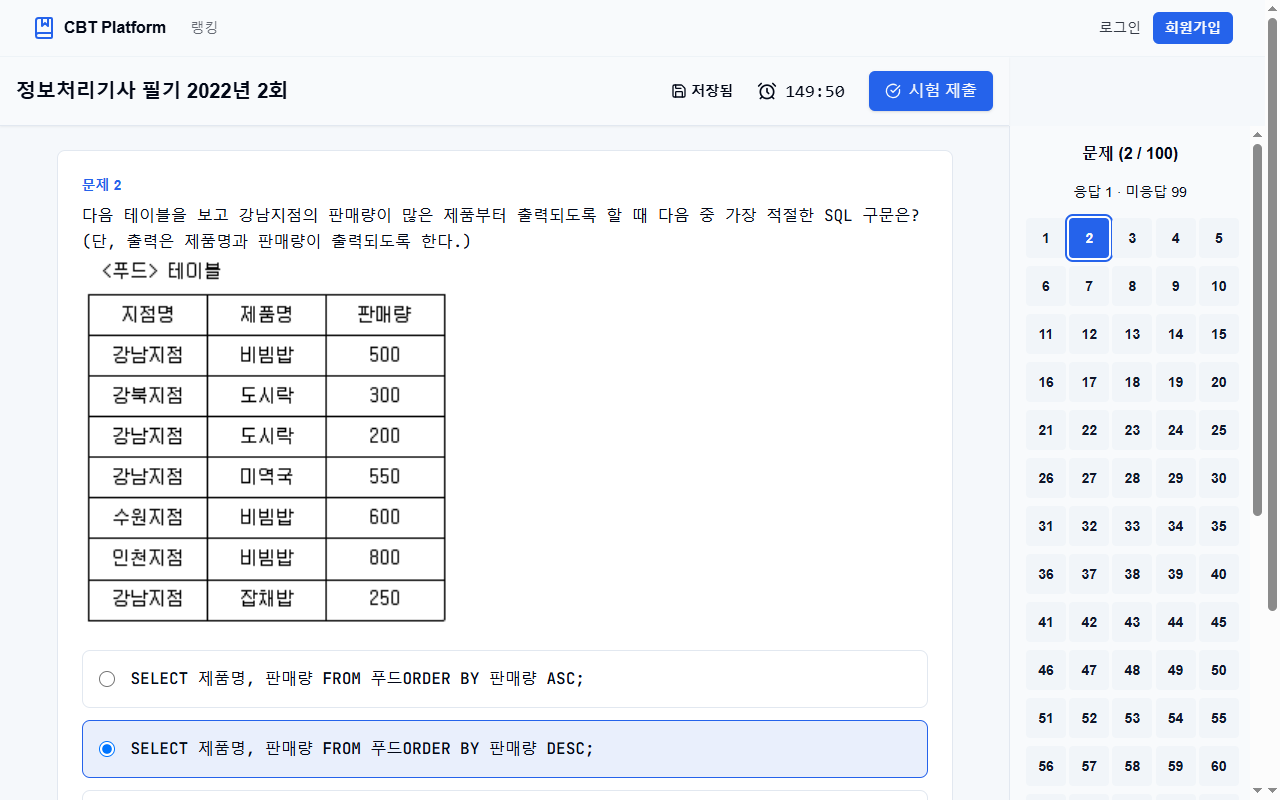
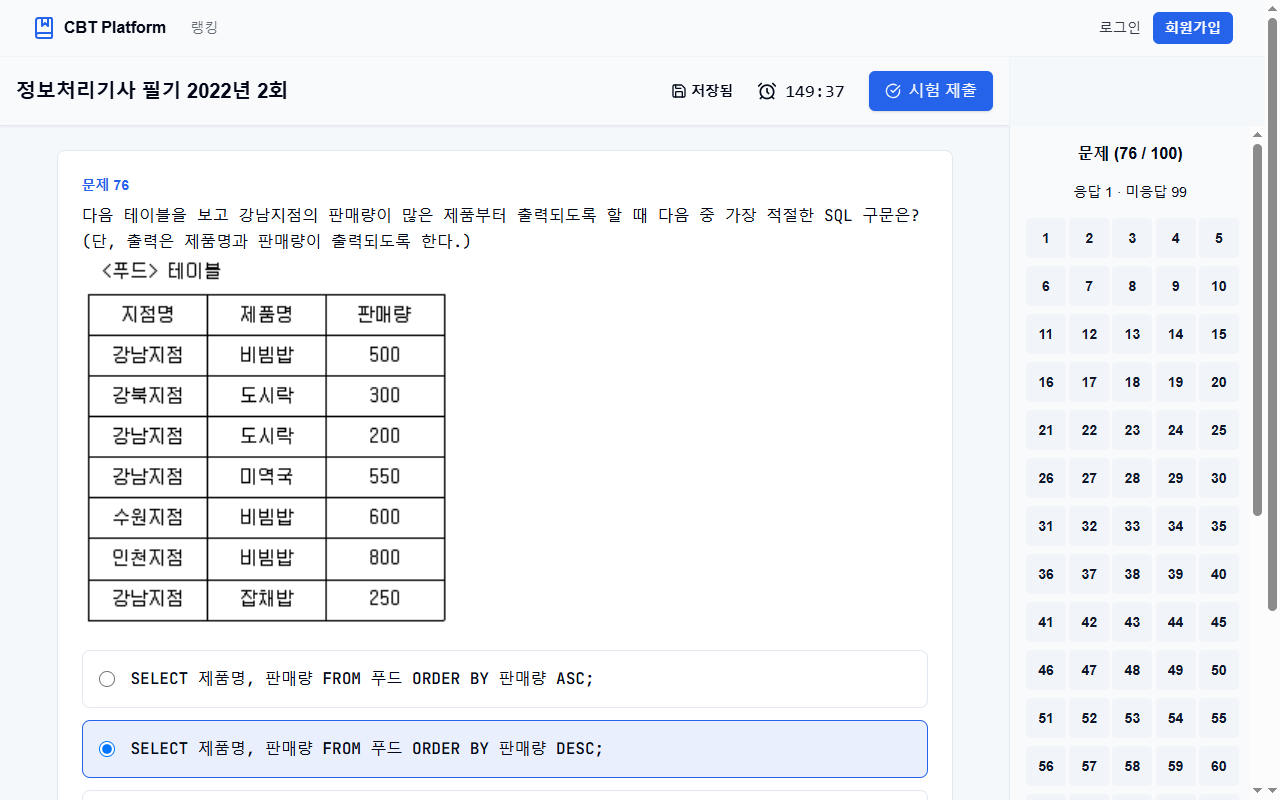
fix(scripts): 필기 파싱의 줄바꿈 띄어쓰기와 안내문 혼입 수정
- 줄 끝 공백이 지워진 경계 복원: 한글→영문, ;·따옴표→영문, SQL 예약어→한글
  (한글 단어 중간·조사는 그대로 붙임). 5개 필드 수정, 정답 변화 없음
- 단(column)을 블록이 아닌 줄 단위로 판정: 2021-1 Q100 보기에 사이트 안내문이 붙던 문제
- 검토 보고서에 안내문 혼입 검사 추가
- load_local.py --update-content: 응시·답안 기록을 지우지 않고 문항 내용만 제자리 갱신
- README 응시 화면 캡처 재촬영

diff --git a/scripts/load_local.py b/scripts/load_local.py
@@ -5,6 +5,7 @@
   python scripts/load_local.py --print        # 실행할 SQL만 출력
   python scripts/load_local.py --replace      # 이 시리즈(응시 기록 포함)를 지우고 다시 삽입
   python scripts/load_local.py --kind written # 필기(scripts/parse_comcbt.py 결과)
+  python scripts/load_local.py --kind written --update-content   # 응시 기록 유지, 문항 내용만 갱신
   python scripts/load_local.py --env-file test.env -p cbt-validation-local   # 임시 검증 스택
 
 관리자 로그인 없이 db 컨테이너의 mysql로 직접 넣는다(scripts/smoke_test.py 와 같은 방식).
@@ -57,6 +58,38 @@ def delete_sql(SERIES):
     ]
 
 
+def exam_title(kind, key):
+    year, rnd = key.split("-")
+    rnd = "1·2" if rnd == "12" else rnd  # 2020년 1·2회 통합 시행
+    return KINDS[kind]["title"] % (year, rnd)
+
+
+def update_sql(rounds, kind):
+    """--update-content: 문항 내용(본문·보기·정답·해설·태그)만 제자리 갱신한다. 응시·답안 기록은 그대로 둔다.
+
+    문항은 시험별 id 순서 = 파일의 문항 순서로 대응시킨다(적재 때 순서대로 넣었으므로).
+    """
+    ranked = ("SELECT x.id, e.title, ROW_NUMBER() OVER (PARTITION BY x.exam_id ORDER BY x.id) rn"
+              " FROM questions x JOIN exams e ON e.id=x.exam_id JOIN exam_series s ON s.id=e.series_id"
+              " WHERE s.name=%s" % q(KINDS[kind]["series"]))
+    out = ["START TRANSACTION;"]
+    for key, data in rounds:
+        for n, x in enumerate(data["questions"], 1):
+            out.append(
+                "UPDATE questions t JOIN (%s) r ON r.id=t.id SET t.text=%s, t.choices=%s, t.answer_key=%s,"
+                " t.answer_keywords=%s, t.explanation=%s, t.tags=%s WHERE r.title=%s AND r.rn=%d;"
+                % (ranked, q(x["text"]), q(x["choices"]), q(x["answerKey"]), q(x["answerKeywords"]),
+                   q(x["explanation"]), q(x["tags"]), q(exam_title(kind, key)), n))
+    out.append("COMMIT;")
+    return "\n".join(out) + "\n"
+
+
+def count_sql(kind):
+    return ("SELECT e.title, COUNT(x.id) FROM exams e JOIN exam_series s ON s.id=e.series_id"
+            " LEFT JOIN questions x ON x.exam_id=e.id WHERE s.name=%s GROUP BY e.id ORDER BY e.round;"
+            % q(KINDS[kind]["series"]))
+
+
 def build_sql(rounds, kind, replace=False):
     k = KINDS[kind]
     out = ["START TRANSACTION;"] + (delete_sql(k["series"]) if replace else []) + [
@@ -64,11 +97,9 @@ def build_sql(rounds, kind, replace=False):
            % (q(k["series"]), q(k["series_desc"])),
            "SET @s = LAST_INSERT_ID();"]
     for no, (key, data) in enumerate(rounds, 1):
-        year, rnd = key.split("-")
-        rnd = "1·2" if rnd == "12" else rnd  # 2020년 1·2회 통합 시행
         out.append("INSERT INTO exams(series_id, round, title, description, duration_sec, type, is_published,"
                    " created_at, updated_at) VALUES (@s, %d, %s, %s, %d, %s, 1, NOW(6), NOW(6));"
-                   % (no, q(k["title"] % (year, rnd)), q(k["desc"] % data["source"]), DURATION_SEC, q(k["type"])))
+                   % (no, q(exam_title(kind, key)), q(k["desc"] % data["source"]), DURATION_SEC, q(k["type"])))
         out.append("SET @e = LAST_INSERT_ID();")
         rows = ["(@e, %s, %s, %s, %s, %s, %s, %s, %s)" % (
             q(x["type"]), q(x["text"]), q(x["choices"]), q(x["answerKey"]), q(x["answerKeywords"]),
@@ -90,6 +121,8 @@ if __name__ == "__main__":
     ap.add_argument("--dir", help="기본값: 종류별 scraped 디렉터리")
     ap.add_argument("--print", action="store_true")
     ap.add_argument("--replace", action="store_true", help="기존 시리즈(응시 기록 포함)를 지우고 다시 넣는다")
+    ap.add_argument("--update-content", action="store_true",
+                    help="응시 기록은 두고 문항 내용만 제자리 갱신한다(재파싱으로 본문·보기를 고쳤을 때)")
     ap.add_argument("--env-file", help="임시 검증 스택용 env 파일")
     ap.add_argument("-p", "--project", help="Compose 프로젝트 이름(예: cbt-validation-local)")
     args = ap.parse_args()
@@ -104,11 +137,20 @@ if __name__ == "__main__":
     if not files:
         sys.exit("%s/*.json 이 없습니다. 스크래핑·파싱 스크립트를 먼저 실행하세요." % src)
     rounds = [(os.path.basename(f)[:-5], json.load(open(f, encoding="utf-8"))) for f in files]
-    sql = build_sql(rounds, args.kind, args.replace)
+    sql = update_sql(rounds, args.kind) if args.update_content else build_sql(rounds, args.kind, args.replace)
     assert q("a'b\\,c") == "'a''b\\\\,c'"  # 작은따옴표·백슬래시 이스케이프
 
     if args.print:
         sys.stdout.write(sql)
+        sys.exit()
+    if args.update_content:
+        # 시험별 문항 수가 파일과 같을 때만 순서 대응이 맞다
+        have = dict(line.split("\t") for line in mysql(count_sql(args.kind)).splitlines() if line)
+        want = {exam_title(args.kind, key): str(len(d["questions"])) for key, d in rounds}
+        if have != want:
+            sys.exit("DB와 파일의 시험·문항 수가 다릅니다. 갱신하지 않습니다.\nDB: %s\n파일: %s" % (have, want))
+        mysql(sql)
+        print("문항 %d개 내용 갱신(응시 기록 유지)" % sum(int(v) for v in want.values()))
         sys.exit()
     if not args.replace and mysql("SELECT COUNT(*) FROM exam_series WHERE name=%s;" % q(SERIES)) != "0":
         sys.exit("이미 '%s' 시리즈가 있습니다. 다시 넣으려면 --replace 를 쓰세요." % SERIES)

diff --git a/scripts/parse_comcbt.py b/scripts/parse_comcbt.py
@@ -26,11 +26,31 @@ MID_X = 298  # 2단 편집: 왼쪽 단 / 오른쪽 단 경계
 SOURCE = "https://www.comcbt.com/xe/iz"
 
 
+HANGUL = re.compile("[가-힣]")
+LATIN = re.compile("[A-Za-z]")
+SQL_WORDS = {"SELECT", "FROM", "WHERE", "AND", "OR", "NOT", "ON", "SET", "BY", "INTO", "VALUES", "JOIN",
+             "HAVING", "IN", "IS", "LIKE", "AS", "UPDATE", "DELETE", "INSERT", "GROUP", "ORDER", "DISTINCT"}
+
+
+def needs_space(a, b):
+    """공백 없이 끊긴 줄 경계에 공백이 있어야 하는가.
+
+    한글은 단어 중간에서도 줄이 바뀌므로 기본은 붙인다. 다만 PDF가 줄 끝 공백을 지운 경우를 되살린다:
+    한글→영문(`FROM 푸드|ORDER`), `;`·따옴표→영문(`j = 9;|int`), SQL 예약어→한글(`WHERE|공급자명`).
+    영문→한글은 조사(`SQL|은`, `Hybrid|에`)라 붙인다.
+    """
+    x, y = a.rstrip()[-1], b.lstrip()[0]
+    if LATIN.match(y) and (HANGUL.match(x) or x in ";'\""):
+        return True
+    words = a.split()
+    return bool(HANGUL.match(y)) and bool(words) and words[-1] in SQL_WORDS
+
+
 def join(a, b):
-    """줄바꿈으로 끊긴 문장을 잇는다(한글은 공백 없이 끊기므로 공백을 넣지 않는다)."""
+    """줄바꿈으로 끊긴 문장을 잇는다(한글은 공백 없이 끊기므로 대개 공백을 넣지 않는다)."""
     if not a.strip():
         return b.lstrip()
-    if a.endswith(" ") or b.startswith(" "):
+    if a.endswith(" ") or b.startswith(" ") or (b.strip() and needs_space(a, b)):
         return a.rstrip() + " " + b.lstrip()
     return a + b.lstrip()  # b 의 끝 공백은 다음 줄과 띄어 잇기 위해 남긴다(최종 저장 시 strip)
 
@@ -54,7 +74,9 @@ def page_items(page):
             t = "".join(c["c"] for c in chars)
             if t.strip() and "comcbt.com" not in t:
                 marks = [(c["bbox"][0], c["bbox"][1]) for c in chars if MARK.match(c["c"])]
-                items.append((col, l["bbox"][1], "txt", t, l["bbox"][0], marks))
+                # 단은 줄마다 정한다: 한 블록이 양쪽 단에 걸치기도 한다(2021-1 마지막 쪽 안내문이 왼쪽 문항에 붙던 문제)
+                line_col = 0 if l["bbox"][0] < MID_X else 1
+                items.append((line_col, l["bbox"][1], "txt", t, l["bbox"][0], marks))
     return sorted(items, key=lambda i: (i[0], i[1]))
 
 
@@ -205,6 +227,8 @@ def run(src, out, images_dir):
                 report.append("%s Q%d: 정답 없음" % (key, q["no"]))
             if len(q["choices"]) != 4 or not all(c.strip() for c in q["choices"]):
                 report.append("%s Q%d: 보기 %d개 또는 빈 보기" % (key, q["no"], len(q["choices"])))
+            if "전자문제집" in q["text"] + "".join(q["choices"]):
+                report.append("%s Q%d: 사이트 안내문이 문항에 섞임" % (key, q["no"]))
             result.append(to_question(q, key, ans))
         nums = [q["no"] for q in qs]
         if nums != list(range(1, len(nums) + 1)) or len(nums) != 100:
@@ -221,6 +245,13 @@ def self_test():
     assert join("시간의 흐름을 나", "타낸다.") == "시간의 흐름을 나타낸다."
     assert join("모델링 ", "하는 것이다.") == "모델링 하는 것이다."
     assert join(join("설명으로 틀린 ", "것은? "), "(단, 1)") == "설명으로 틀린 것은? (단, 1)"
+    # PDF가 줄 끝 공백을 지운 경계는 되살리고, 한글 단어 중간·조사는 붙인다
+    assert join("SELECT 제품명 FROM 푸드", "ORDER BY 판매량 DESC;") == "SELECT 제품명 FROM 푸드 ORDER BY 판매량 DESC;"
+    assert join("int i = 7, j = 9;", "int k;") == "int i = 7, j = 9; int k;"
+    assert join("WHERE 지점명 = '강남지점'", "ORDER BY") == "WHERE 지점명 = '강남지점' ORDER BY"
+    assert join("SELECT * FROM 공급자 WHERE", "공급자명 LIKE '%대%'") == "SELECT * FROM 공급자 WHERE 공급자명 LIKE '%대%'"
+    assert join("절차형 SQL", "은?") == "절차형 SQL은?" and join("구축유형 중 Hybrid", "에 대한") == "구축유형 중 Hybrid에 대한"
+    assert join("중국어과 학생 30", "명") == "중국어과 학생 30명" and join("비기능적", "(Nonfunctional)") == "비기능적(Nonfunctional)"
     assert answer_table("1 2 3 ② ① ④ 4 5 ③ ①") == {1: 2, 2: 1, 3: 4, 4: 3, 5: 1}
     doc = fitz.open()
     p = doc.new_page(width=595, height=841)
